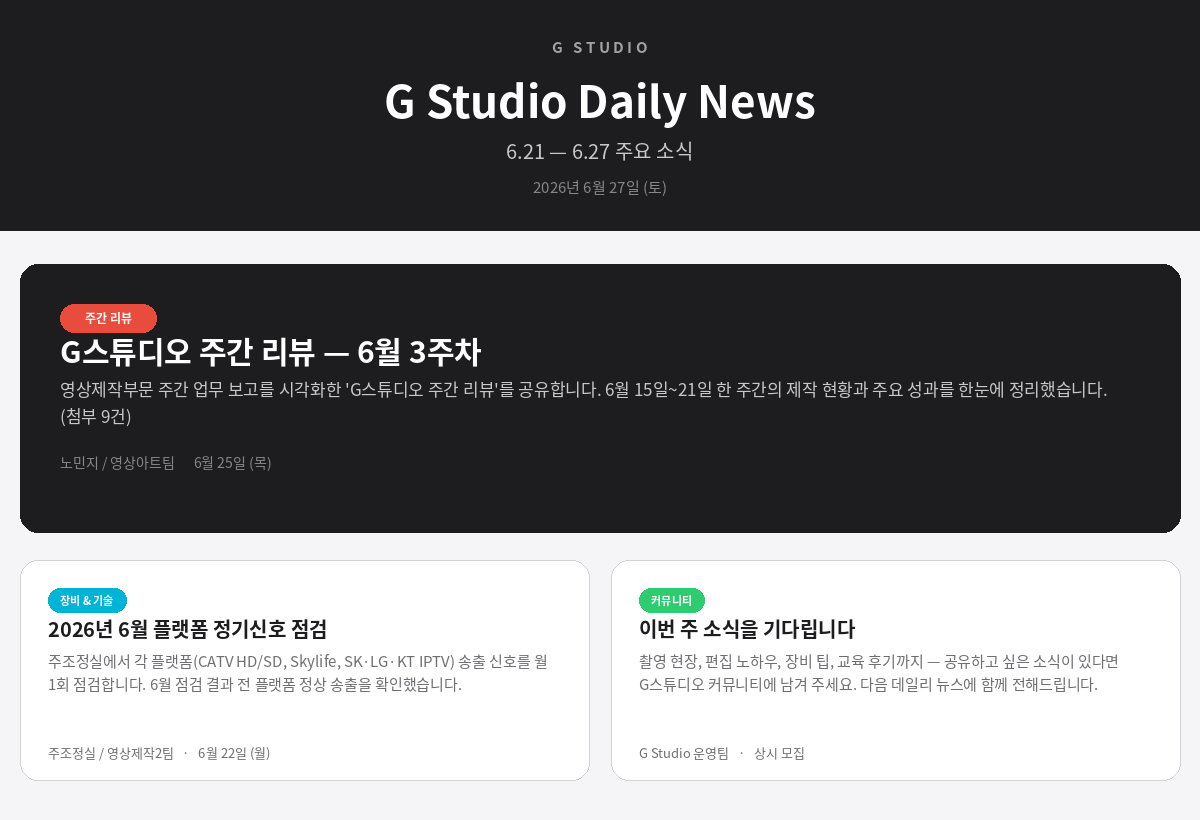
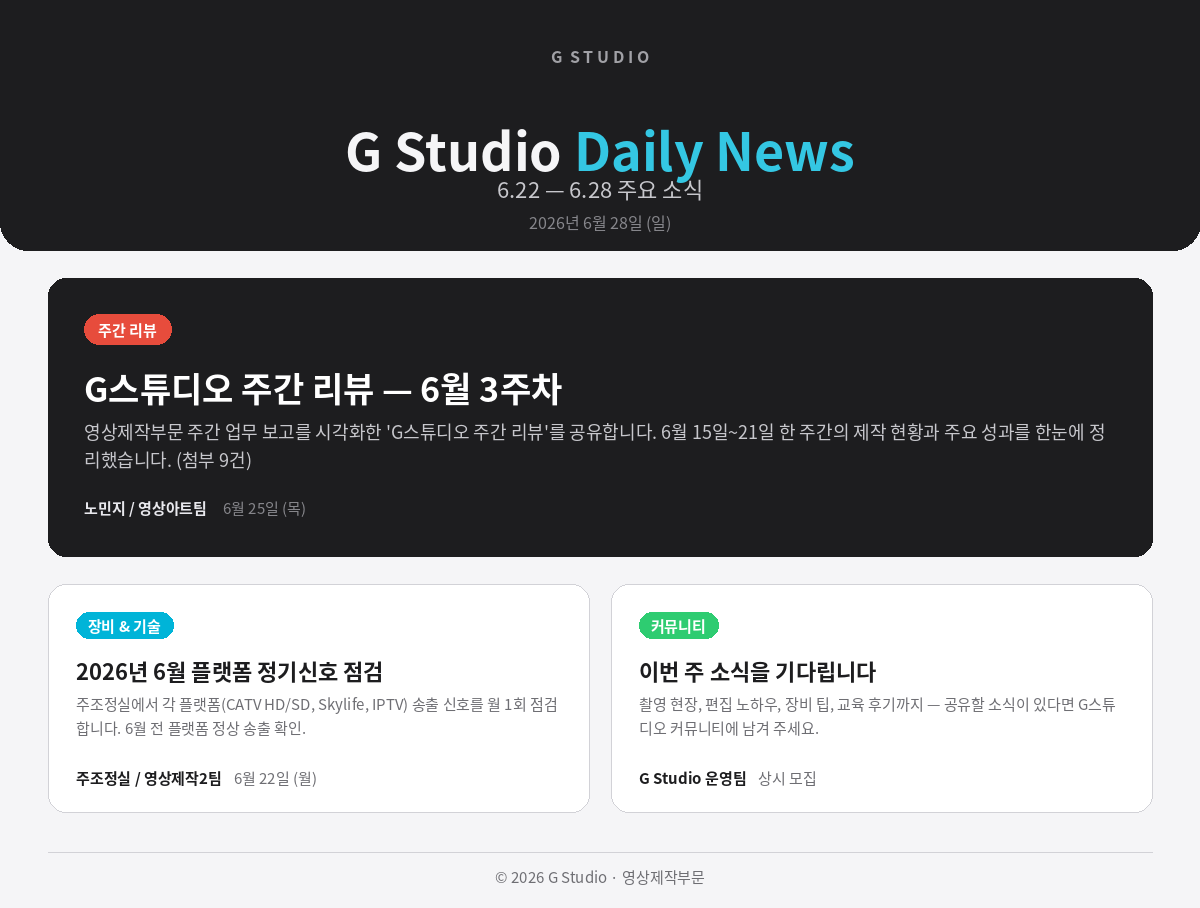
Daily News Update - 2026.06.28

Changed region(s): [[0.0, 0.0305, 1.0, 0.8841], [0.4008, 0.9146, 0.6783, 0.9756], [0.0308, 0.9146, 0.2158, 0.9451]]

diff --git a/index.html b/index.html
@@ -3,7 +3,7 @@
 <head>
 <meta charset="UTF-8">
 <meta name="viewport" content="width=device-width, initial-scale=1.0">
-<title>G Studio Daily News — 2026.06.27</title>
+<title>G Studio Daily News — 2026.06.28</title>
 <style>
   :root{
     --apple-bg:#FFFFFF;
@@ -116,8 +116,8 @@
   <div class="hero">
     <div class="hero-logo">G STUDIO</div>
     <div class="hero-title">G Studio <span class="accent">Daily News</span></div>
-    <div class="hero-sub">6.21 — 6.27 주요 소식</div>
-    <div class="hero-date">2026년 6월 27일 (토)</div>
+    <div class="hero-sub">6.22 — 6.28 주요 소식</div>
+    <div class="hero-date">2026년 6월 28일 (일)</div>
   </div>
 
   <div class="wrap">
